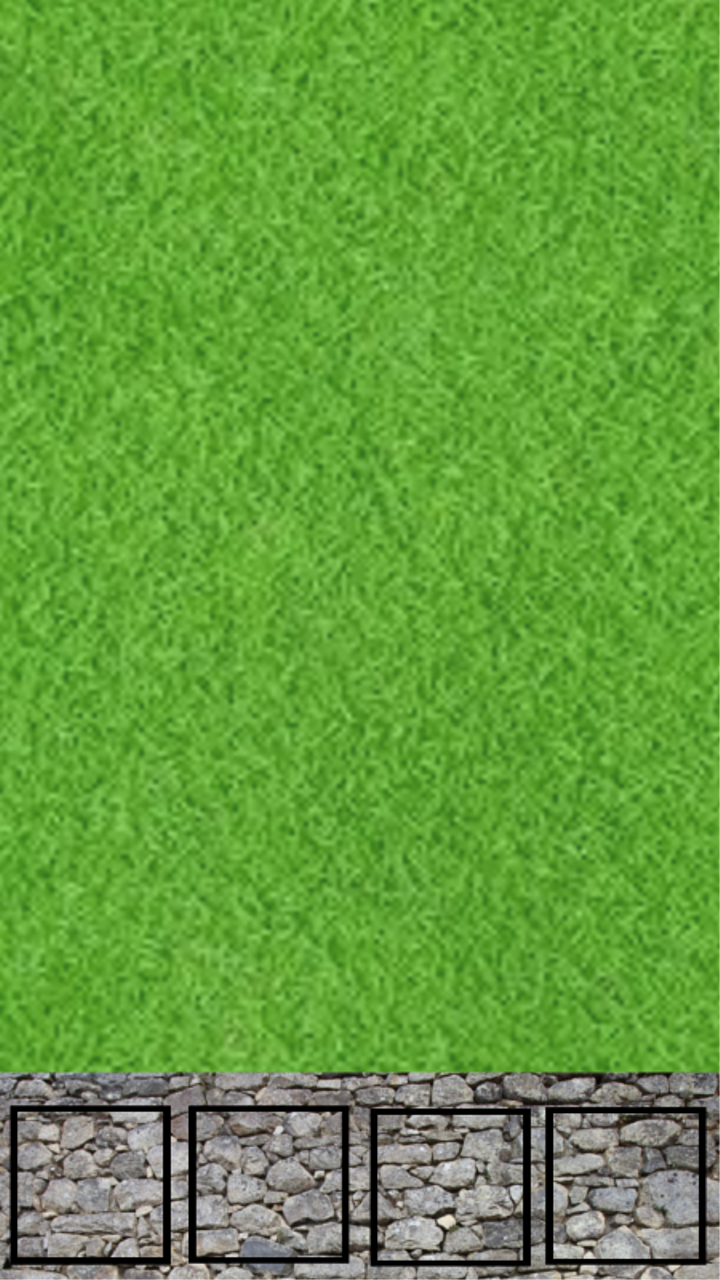
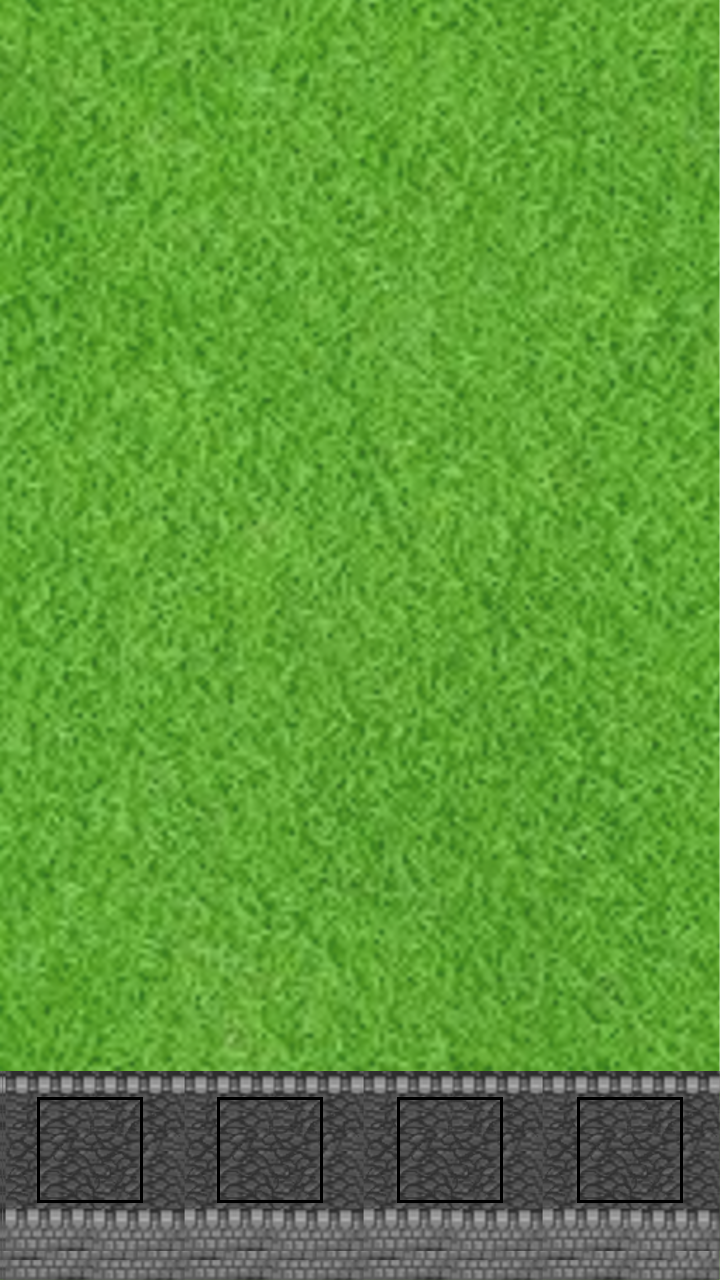
Setup circular hitbox and rangebox
-Entity.java renamed to Unit.java to separate from the class that will be created for towers
-Units now use circular hitbox in the overriden hit method
-Circular hitbox and rangebox can be seen by setting debugmode to true
-Background images for both game modes have been modified with a different wall texture
-Arrow tower image added

Changed region(s): [[0.0, 0.8125, 1.0, 1.0]]

diff --git a/core/src/edu/uco/kkovatana1/siegedefense/Unit.java b/core/src/edu/uco/kkovatana1/siegedefense/Unit.java
@@ -1,0 +1,53 @@
+package edu.uco.kkovatana1.siegedefense;
+
+import com.badlogic.gdx.graphics.g2d.Batch;
+import com.badlogic.gdx.graphics.glutils.ShapeRenderer;
+import com.badlogic.gdx.math.Circle;
+import com.badlogic.gdx.math.Vector2;
+import com.badlogic.gdx.scenes.scene2d.Actor;
+import com.badlogic.gdx.scenes.scene2d.Touchable;
+import com.badlogic.gdx.graphics.Color;
+
+public class Unit extends Actor {
+    protected Animator animator;
+    protected Circle hitBox;
+    protected Circle rangeBox;
+    protected ShapeRenderer shapeRenderer;
+
+    public Unit(float x, float y, String atlasFilePath, float hitBoxRadius, float rangeBoxRadius){
+        this.setPosition(x,y);
+        this.animator = new Animator(atlasFilePath);
+        this.setWidth(this.animator.getWidth());
+        this.setHeight(this.animator.getHeight());
+        this.setOrigin(this.getWidth() / 2, this.getHeight() / 2);
+        this.hitBox = new Circle(this.getX()+this.getOriginX(),this.getY()+this.getOriginY(),hitBoxRadius);
+        this.rangeBox = new Circle(this.getX()+this.getOriginX(),this.getY()+this.getOriginY(),rangeBoxRadius);
+        this.shapeRenderer = new ShapeRenderer();
+        //this.setDebug(true);
+    }
+
+    @Override
+    public void draw(Batch batch, float alpha){
+        if(this.getDebug()) {
+            shapeRenderer.begin(ShapeRenderer.ShapeType.Line);
+            shapeRenderer.setColor(Color.GREEN);
+            shapeRenderer.circle(this.rangeBox.x, this.rangeBox.y, this.rangeBox.radius);
+            shapeRenderer.end();
+
+            shapeRenderer.begin(ShapeRenderer.ShapeType.Line);
+            shapeRenderer.setColor(Color.RED);
+            shapeRenderer.circle(this.hitBox.x, this.hitBox.y, this.hitBox.radius);
+            shapeRenderer.end();
+        } else {
+            animator.draw(batch, this.getX(), this.getY());
+        }
+    }
+
+    @Override
+    public Actor hit(float x, float y, boolean touchable) {
+        if (touchable && getTouchable() != Touchable.enabled) return null;
+        return Vector2.dst(this.getOriginX(),this.getOriginY(),x,y) <= this.hitBox.radius ? this : null;
+        /*return x >= getOriginX() && x < (getWidth() - getOriginX())
+                && y >= getOriginY() && y < (getHeight() - getOriginY()) ? this : null;*/
+    }
+}

diff --git a/core/src/edu/uco/kkovatana1/siegedefense/SiegeGameScreen.java b/core/src/edu/uco/kkovatana1/siegedefense/SiegeGameScreen.java
@@ -27,9 +27,9 @@ public class SiegeGameScreen implements Screen {
     private PauseOverlay resumeBtn;
     private PauseOverlay quitBtn;
 
-    private Entity footman;
-    private Entity footman2;
-    private Entity footman3;
+    private Unit footman;
+    private Unit footman2;
+    private Unit footman3;
 
     public SiegeGameScreen(GameMain game){
         this.game = game;
@@ -65,8 +65,8 @@ public class SiegeGameScreen implements Screen {
         stage.addActor(settings);
 
         //Game actors for testing
-        footman = new Entity(Gdx.graphics.getWidth() * 0.1f, Gdx.graphics.getHeight() * 0.25f,
-                "characters/units/footman200.atlas", 0.25f);
+        footman = new Unit(Gdx.graphics.getWidth() * 0.1f, Gdx.graphics.getHeight() * 0.25f,
+                "characters/units/footman200.atlas", 50.0f, 100.0f);
         footman.addListener(new ClickListener() {
             @Override
             public boolean touchDown(InputEvent event, float x, float y, int pointer, int button) {
@@ -80,8 +80,8 @@ public class SiegeGameScreen implements Screen {
         });
         stage.addActor(footman);
 
-        footman2 = new Entity(Gdx.graphics.getWidth() * 0.4f, Gdx.graphics.getHeight() * 0.25f,
-                "characters/units/footman200.atlas", 0.25f);
+        footman2 = new Unit(Gdx.graphics.getWidth() * 0.4f, Gdx.graphics.getHeight() * 0.25f,
+                "characters/units/footman200.atlas", 50.0f, 100.0f);
         footman2.addListener(new ClickListener() {
             @Override
             public boolean touchDown(InputEvent event, float x, float y, int pointer, int button) {
@@ -96,8 +96,8 @@ public class SiegeGameScreen implements Screen {
         });
         stage.addActor(footman2);
 
-        footman3 = new Entity(Gdx.graphics.getWidth() * 0.7f, Gdx.graphics.getHeight() * 0.25f,
-                "characters/units/footman200.atlas", 0.25f);
+        footman3 = new Unit(Gdx.graphics.getWidth() * 0.7f, Gdx.graphics.getHeight() * 0.25f,
+                "characters/units/footman200.atlas", 50.0f, 100.0f);
         footman3.addListener(new ClickListener() {
             @Override
             public boolean touchDown(InputEvent event, float x, float y, int pointer, int button) {
